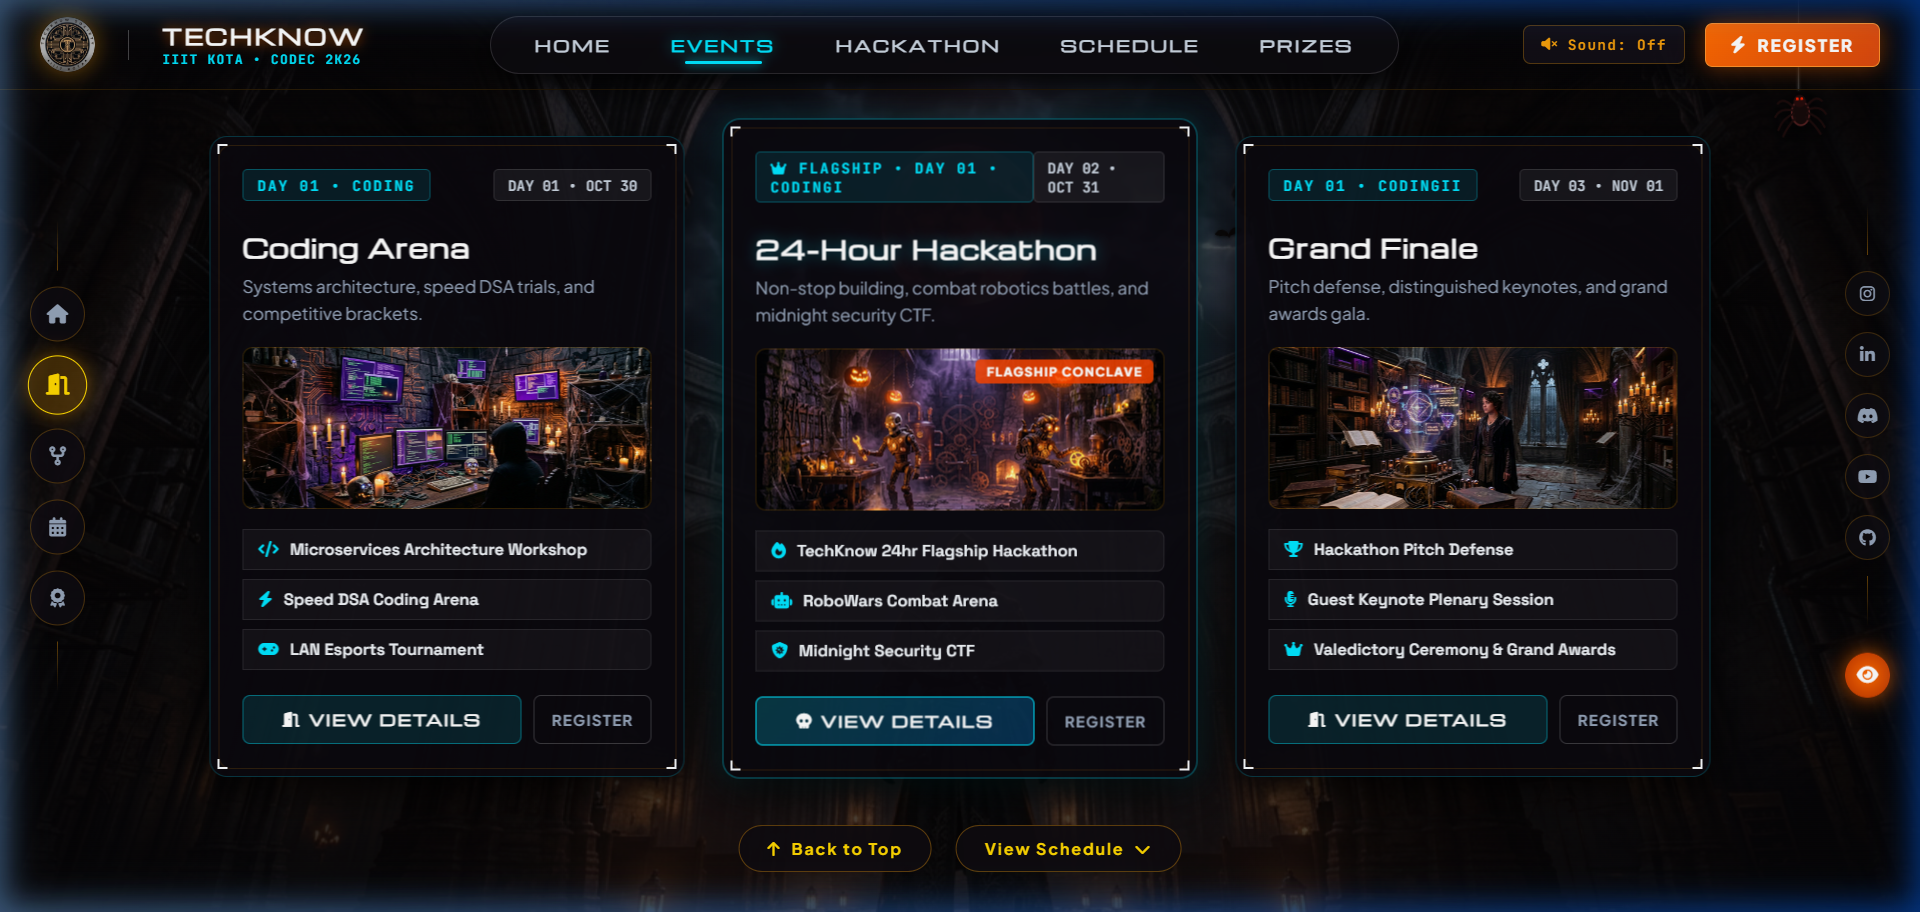
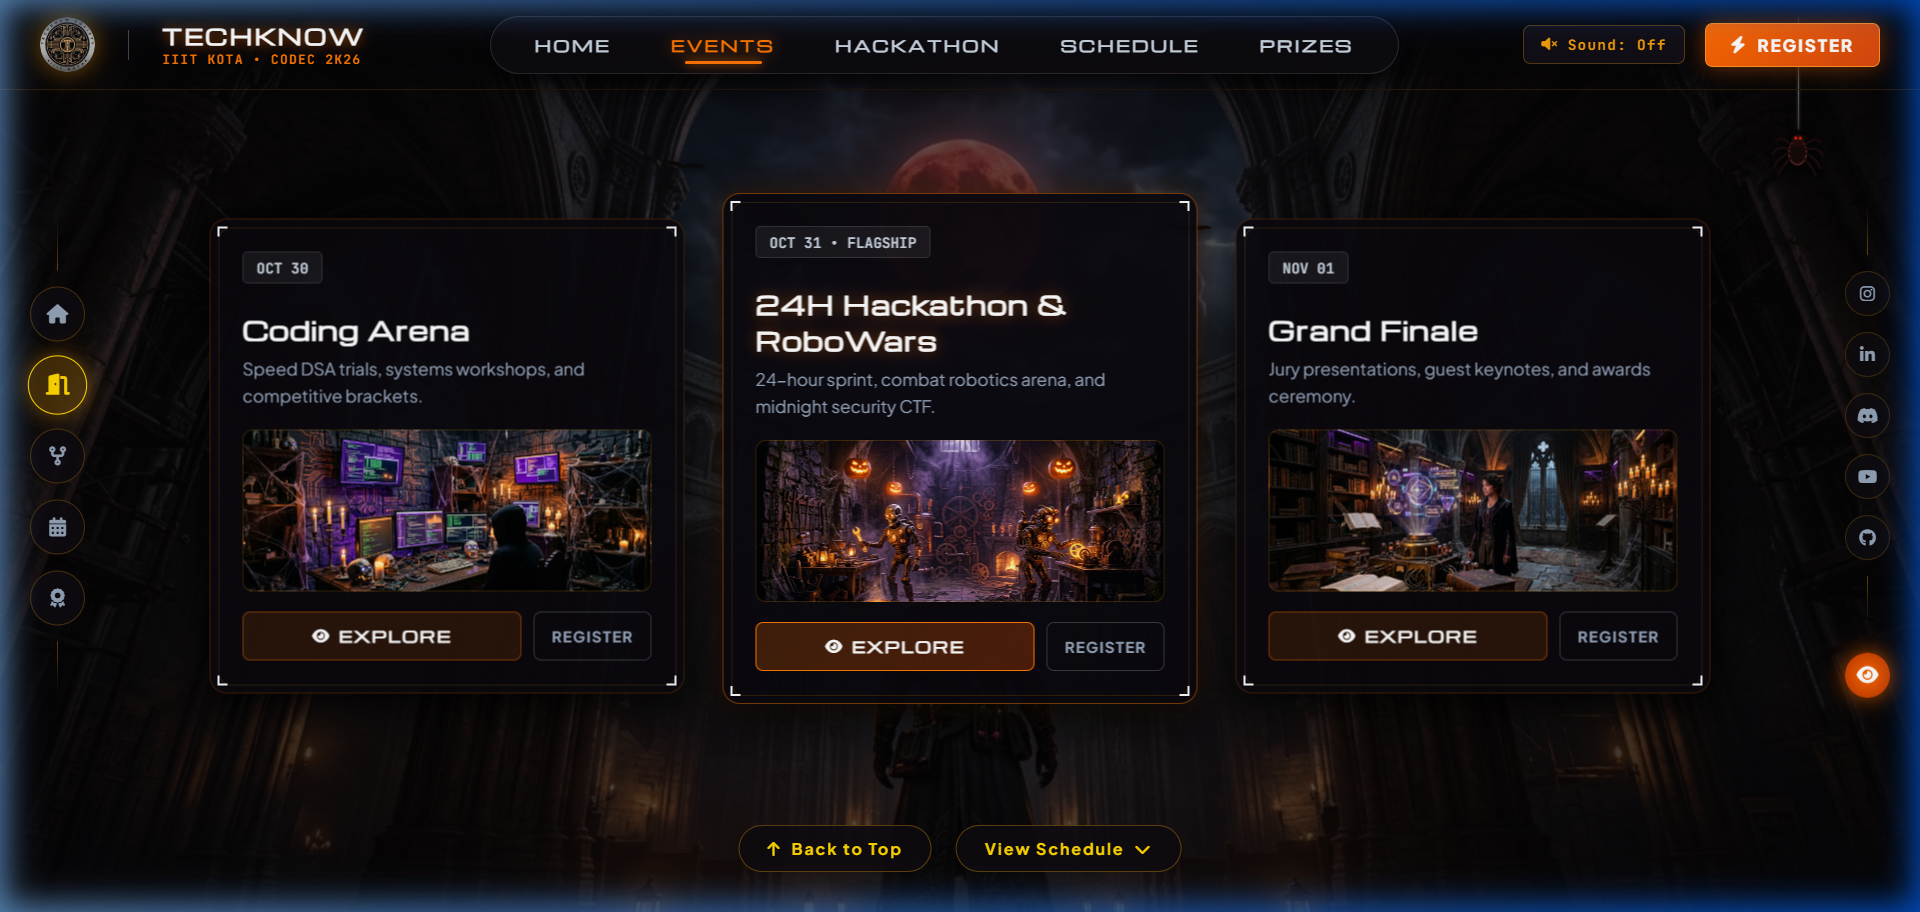
docs: update README with only recent live screenshots of the working website and remove old screenshots

diff --git a/README.md b/README.md
@@ -9,7 +9,7 @@
 [![Vite](https://img.shields.io/badge/Vite-8.x-646CFF?style=for-the-badge&logo=vite&logoColor=white)](https://vitejs.dev/)
 [![JavaScript](https://img.shields.io/badge/Vanilla_JS-120_FPS-F7DF1E?style=for-the-badge&logo=javascript&logoColor=black)](https://developer.mozilla.org/en-US/docs/Web/JavaScript)
 [![CSS3](https://img.shields.io/badge/CSS3-Glassmorphism-1572B6?style=for-the-badge&logo=css3&logoColor=white)](https://developer.mozilla.org/en-US/docs/Web/CSS)
-[![Audio](https://img.shields.io/badge/Web_Audio_API-Synthesized-FF7700?style=for-the-badge&logo=soundcloud&logoColor=white)](https://developer.mozilla.org/en-US/docs/Web/API/Web_Audio_API)
+[![Theme](https://img.shields.io/badge/Theme-Halloween_Orange-FF7700?style=for-the-badge&logo=ghost&logoColor=white)](https://github.com/AyushSrivastava1818/codec-2k26)
 [![Status](https://img.shields.io/badge/Status-Production_Ready-00E5FF?style=for-the-badge)](https://github.com/AyushSrivastava1818/codec-2k26)
 
 *“WE ARE THE ‘ T ’ OF IIIT KOTA”*
@@ -20,53 +20,46 @@
 
 ## 🏛 Overview
 
-**CODEC 2K26** is the annual flagship technical conclave organized by **TechKnow Society**, the official Technical Council of **IIIT Kota**. This cutting-edge web portal delivers an immersive, Halloween-themed cinematic journey seamlessly fused with a high-tech engineering aesthetic.
+**CODEC 2K26** is the annual flagship technical conclave organized by **TechKnow Society**, the official Technical Council of **IIIT Kota**. This web portal delivers an immersive, Halloween-themed cinematic journey seamlessly fused with a modern engineering aesthetic.
 
-The application blends 3D perspective scroll animations, volumetric fog transitions, an atmospheric rotunda with interactive event chambers, real-time scroll navigation, and a modern registration engine — running smoothly at a rock-solid **120 FPS**.
+The application features 3D perspective zoom scroll transitions, volumetric mist fog layers, an atmospheric rotunda with interactive event chambers, real-time scroll navigation, and a streamlined registration engine — running smoothly at a rock-solid **120 FPS**.
 
 ---
 
-## 📸 Visual Showcase
+## 📸 Live Visual Showcase
 
 ### 1. Exterior Haunted Mansion & Hero Stage
-> Cinematic scale zoom into the haunted mansion with titanium-faceted typography, atmospheric vignette, and HUD capsule navigation.
+> Cinematic scale zoom into the haunted mansion with titanium-faceted typography, atmospheric vignette, and HUD capsule navigation with active Halloween fiery orange indicators.
 
 ![Exterior Haunted Mansion](docs/screenshots/01_hero_mansion.png)
 
 ---
 
 ### 2. Rotunda & The 3 Chamber Portals
-> Passing through volumetric mist, the user enters the interior rotunda where a hooded warrior stands guard before the three event chambers: **Coding Arena (Oct 30)**, **24H Hackathon & RoboWars (Oct 31)**, and **Grand Finale (Nov 01)**.
+> Passing through volumetric mist, the user enters the interior rotunda where a hooded warrior stands guard before the three streamlined event chambers: **Coding Arena (Oct 30)**, **24H Hackathon & RoboWars (Oct 31)**, and **Grand Finale (Nov 01)**.
 
 ![Rotunda Chamber Portals](docs/screenshots/02_events_chambers.png)
 
 ---
 
-### 3. Fullscreen Immersive Chamber Modal
-> Clicking any chamber card opens an immersive fullscreen environment featuring high-resolution chamber interiors, event schedules, and team registration shortcuts.
+### 3. 24-Hour National Hackathon Hub
+> The flagship hackathon portal featuring a 4-stat key specs bar (`24H Continuous Sprint`, `2 - 4 Members / Team`, `₹1,00,000+ Prize Pool`, `Open to All Colleges`) and direct team registration with problem statements revealed live at kickoff.
 
-![Chamber Interior Modal](docs/screenshots/03_chamber_interior_modal.png)
-
----
-
-### 4. 24-Hour National Hackathon Hub
-> The flagship hackathon portal featuring a 4-stat key specs bar (`24H Continuous Sprint`, `2 - 4 Members / Team`, `₹1,00,000+ Prize Pool`, `Open to All Colleges`) and direct team registration.
-
-![24-Hour National Hackathon](docs/screenshots/04_national_hackathon.png)
+![24-Hour National Hackathon Hub](docs/screenshots/03_hackathon_hub.png)
 
 ---
 
-### 5. Official 3-Day Conclave Timetable
-> Day-by-day interactive timetable streaming workshops, competitive coding rounds, combat robotics, midnight CTF, and project pitch defense.
+### 4. Official 3-Day Conclave Timetable
+> Day-by-day streamlined timetable showcasing workshops, competitive coding rounds, combat robotics, midnight CTF, and project pitch defense.
 
-![Official Timetable](docs/screenshots/05_schedule_timetable.png)
+![Official Timetable](docs/screenshots/04_schedule_timetable.png)
 
 ---
 
-### 6. Honors & Recognition Podium
+### 5. Honors & Recognition Podium
 > Grand Champion perpetual trophy citation, 1st Runner-Up, and 2nd Runner-Up awards.
 
-![Honors and Awards](docs/screenshots/06_prizes_honors.png)
+![Honors and Awards](docs/screenshots/05_prizes_awards.png)
 
 ---
 
@@ -76,9 +69,9 @@ The application blends 3D perspective scroll animations, volumetric fog transiti
   Uses requestAnimationFrame interpolation and hardware-composited `transform: translate3d()` and `scale()` properties to eliminate layout thrashing and jitter.
 
 - **🧭 Real-Time Dynamic ScrollSpy**:
-  Accurately tracks user position using `getBoundingClientRect()` thresholds, highlighting the active section (`HOME`, `EVENTS`, `HACKATHON`, `SCHEDULE`, `PRIZES`) across both the top HUD capsule and the left floating dock.
+  Accurately tracks user position using `getBoundingClientRect()` thresholds, dynamically highlighting the active section (`HOME`, `EVENTS`, `HACKATHON`, `SCHEDULE`, `PRIZES`) across both the top HUD capsule and the left floating dock.
 
-- **🎃 Halloween Fiery Orange Aesthetic**:
+- **🎃 Halloween Fiery Orange Theme**:
   Styled with glowing pumpkin orange (`#ff7700` / `#ff6a00`) accents, dark glassmorphism (`rgba(14, 11, 18, 0.92)`), and clean, modern fonts:
   - **Headings & Badges**: `Syncopate` & `Michroma`
   - **Subtitles & Card Titles**: `Space Grotesk`
@@ -146,13 +139,12 @@ The application blends 3D perspective scroll animations, volumetric fog transiti
 ```
 codec-2k26/
 ├── docs/
-│   └── screenshots/              # High-resolution screenshots of all sections
+│   └── screenshots/              # High-resolution screenshots of recent live website
 │       ├── 01_hero_mansion.png
 │       ├── 02_events_chambers.png
-│       ├── 03_chamber_interior_modal.png
-│       ├── 04_national_hackathon.png
-│       ├── 05_schedule_timetable.png
-│       └── 06_prizes_honors.png
+│       ├── 03_hackathon_hub.png
+│       ├── 04_schedule_timetable.png
+│       └── 05_prizes_awards.png
 ├── public/
 │   ├── assets/                   # Vector logos, backgrounds & chamber assets
 │   ├── favicon.svg
